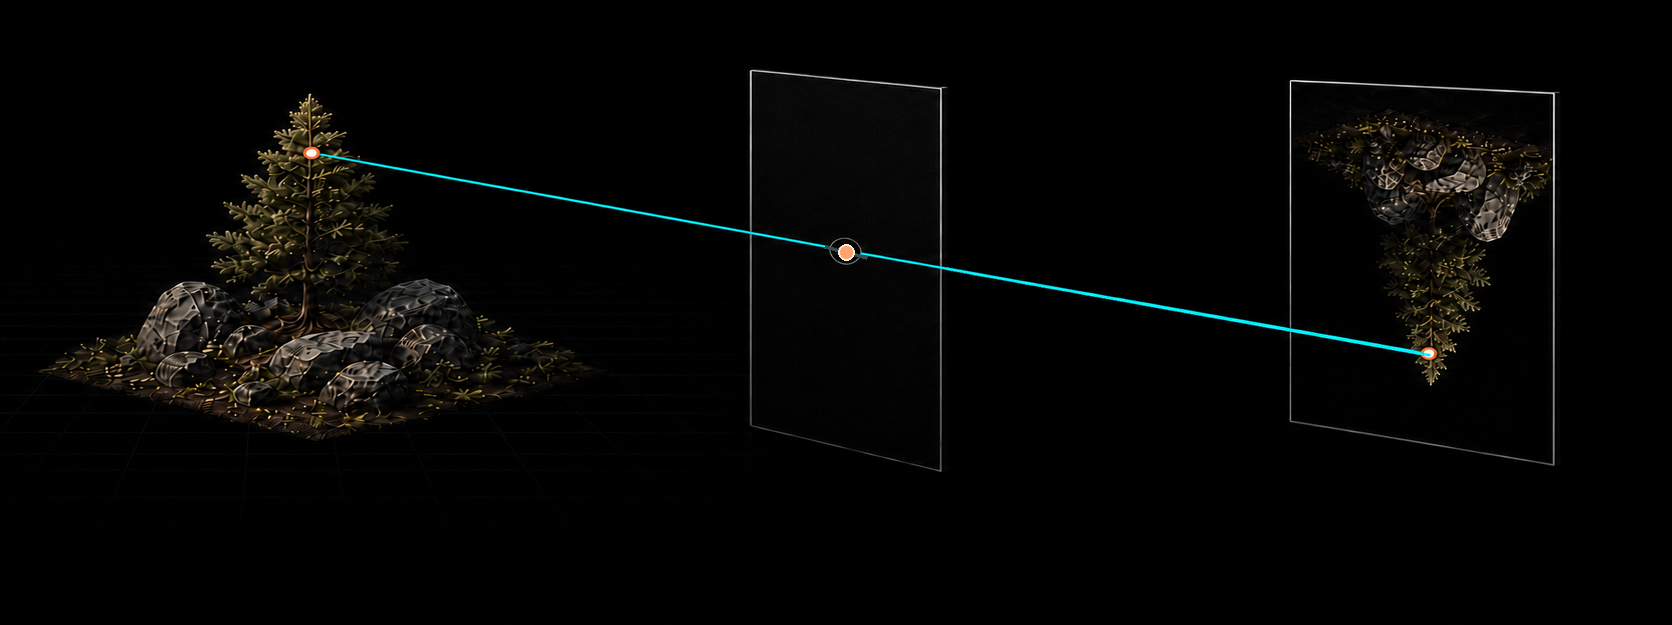
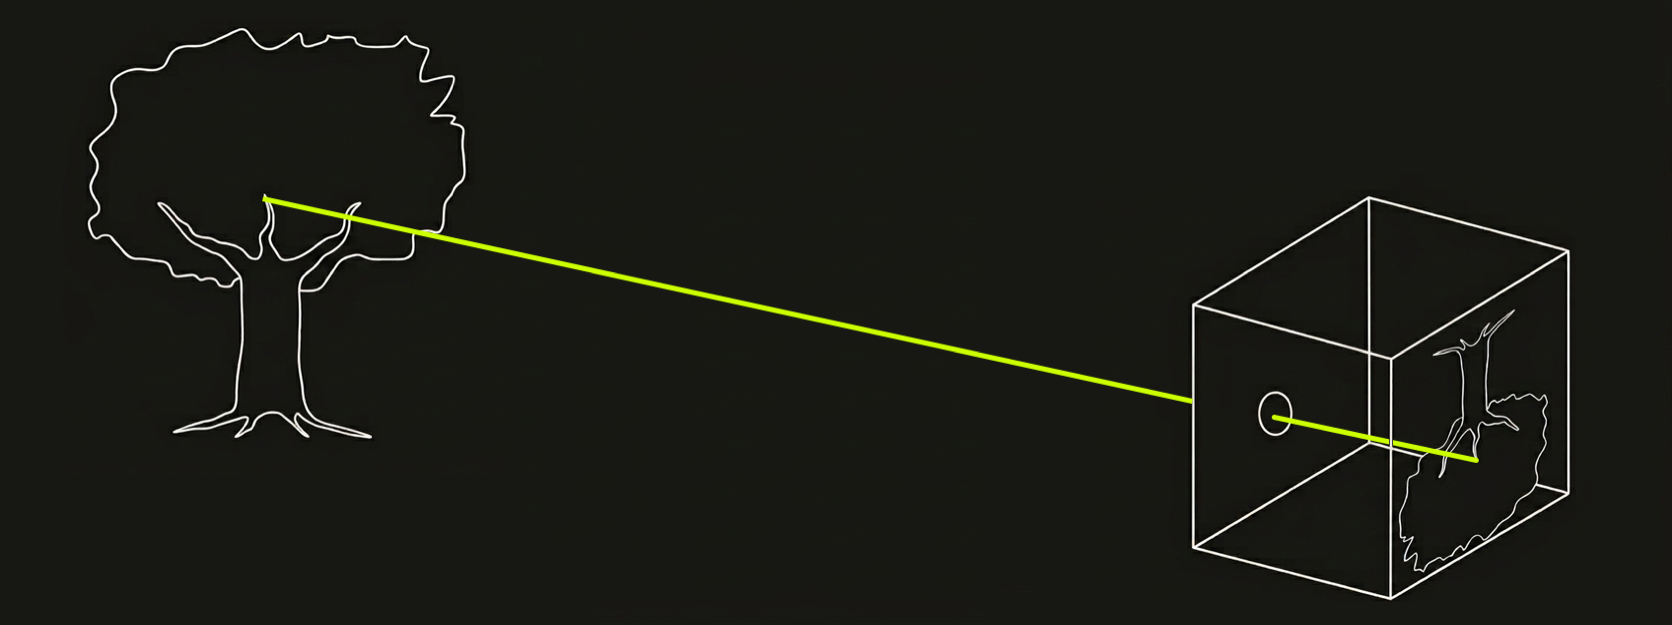
Replace Perspective Projection teaser

diff --git a/docs/index.html b/docs/index.html
@@ -32,7 +32,7 @@
     <a class="visualization-card" href="https://csprofkgd.github.io/parallel-stereo-visualization/" target="_blank" rel="noreferrer"><div class="image-link"><img class="teaser-image" src="./teasers/parallel-stereo-dark.png?v=20260826-binocular" alt="Parallel Stereo teaser"></div><div class="card-copy"><div><p class="category">Projective Geometry</p><h3>Parallel Stereo</h3><p class="description">Two views. One point. One matching scanline.</p></div></div></a>
     <a class="visualization-card" href="https://csprofkgd.github.io/epipolar-geometry-visualization/" target="_blank" rel="noreferrer"><div class="image-link"><img class="teaser-image" src="./teasers/epipolar-geometry-dark.png" alt="Epipolar Geometry teaser"></div><div class="card-copy"><div><p class="category">Projective Geometry</p><h3>Epipolar Geometry</h3><p class="description">The geometry behind stereo vision.</p></div></div></a>
     <a class="visualization-card" href="https://csprofkgd.github.io/planar-homography-lab/" target="_blank" rel="noreferrer"><div class="image-link"><img class="teaser-image" src="./teasers/planar-homography-dark.png" alt="Planar Homography teaser"></div><div class="card-copy"><div><p class="category">Projective Geometry</p><h3>Planar Homography</h3><p class="description">Plane-to-plane projective mapping.</p></div></div></a>
-    <a class="visualization-card" href="https://csprofkgd.github.io/perspective-projection/" target="_blank" rel="noreferrer"><div class="image-link"><img class="teaser-image" src="./teasers/perspective-projection-dark.png" alt="Perspective Projection teaser"></div><div class="card-copy"><div><p class="category">Projective Geometry</p><h3>Perspective Projection</h3><p class="description">One point. One ray. One image.</p></div></div></a>
+    <a class="visualization-card" href="https://csprofkgd.github.io/perspective-projection/" target="_blank" rel="noreferrer"><div class="image-link"><img class="teaser-image" src="./teasers/perspective-projection-dark.png?v=20260826-gemini" alt="Perspective Projection teaser"></div><div class="card-copy"><div><p class="category">Projective Geometry</p><h3>Perspective Projection</h3><p class="description">One point. One ray. One image.</p></div></div></a>
     <a class="visualization-card" href="https://drive.google.com/file/d/1170Cbv73a7XmUNXWXli-rCGe7KW_KXXF/view?usp=share_link" target="_blank" rel="noreferrer"><div class="image-link"><img class="teaser-image" src="./teasers/convolution-dark.png" alt="Correlation teaser"></div><div class="card-copy"><div><p class="category">Signal Processing</p><h3>Correlation (aka &quot;Convolution&quot;)</h3><p class="description">Slide. Pointwise multiply. Sum. Repeat.</p></div></div></a>
   </section>
   <section class="instructor-section" aria-label="About Kosta Derpanis"><aside class="instructor-card"><img class="instructor-portrait" src="./KGD-profile.png" alt="Illustrated portrait of Kosta Derpanis"><div class="instructor-copy"><p class="instructor-label">Your Tour Guide</p><h2>Kosta Derpanis</h2><p>Associate Professor<br>York University</p><div class="instructor-links"><a href="https://csprofkgd.github.io" target="_blank" rel="noreferrer" aria-label="Homepage">⌂</a><a href="mailto:kosta@yorku.ca" aria-label="Email">✉</a><a href="https://x.com/CSProfKGD" target="_blank" rel="noreferrer" aria-label="X">𝕏</a><a href="https://www.linkedin.com/in/kosta-derpanis-a07824122/" target="_blank" rel="noreferrer" aria-label="LinkedIn">in</a></div></div></aside></section>

diff --git a/app/page.tsx b/app/page.tsx
@@ -102,7 +102,7 @@ const visualizations: Visualization[] = [
   },
 ];
 
-const TEASER_ASSET_VERSION = "20260826-binocular-parallel-stereo";
+const TEASER_ASSET_VERSION = "20260826-gemini-perspective-projection";
 
 export default function Home() {
   const [theme, setTheme] = useState<Theme>("dark");

diff --git a/context.md b/context.md
@@ -24,7 +24,7 @@ Updated: 2026-08-26
 
 ## Accepted content and replacements
 
-- Perspective Projection: use the new photoreal scene with tree/rocks, opaque pinhole plane, one ray, and inverted image-plane projection. The incident ray remains visible from the world point to the pinhole; only the outgoing portion directly behind the opaque plane is subdued, and full cyan resumes exactly at the projected plane boundary before continuing to the image point.
+- Perspective Projection: use the user-supplied `Gemini_Generated_Image_ahfuv7ahfuv7ahfu.png`, normalized to the shared 1672×625 teaser canvas and used identically in light and dark modes.
 - Sphere to Cubemap and Sphere to Equirectangular Projection: use the outpainted compositions with black background at every raster edge and modest breathing room around the complete globe and mapping diagram. Preserve every legitimate cyan latitude/longitude arc and every cyan cubemap/ERP segment outline. Remove the orange/coral vertical meridian and all associated glow from both representations.
 - Parallel Stereo: use the user-supplied `/Users/kosta/Downloads/binocular.png` raster, already at the shared 1672×625 canvas, identically for both dark and light teaser assets.
 - Stereo Rectification uses the user-supplied final raster `codex-clipboard-f95718d9-d220-469a-b67a-32e735d792ae.png` for both dark and light teaser assets. Epipolar Geometry, Local Minimum, and Parallel Stereo use outpainted compositions with black background at every raster edge and breathing room around all cameras, points, surfaces, paths, and image planes.
